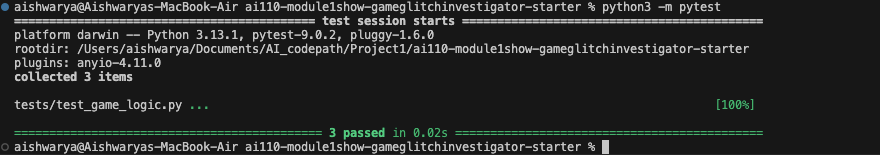
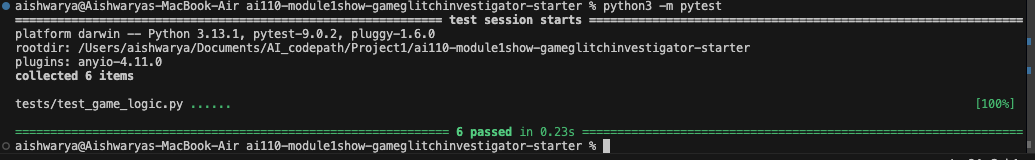
docs: finalized README, reflection, screenshots, and edge case tests

diff --git a/logic_utils.py b/logic_utils.py
@@ -1,6 +1,42 @@
-def get_range_for_difficulty(difficulty: str):
-    """Return (low, high) inclusive range for a given difficulty."""
-     # FIX: Corrected the hint logic where normal was high than difficulty.
+"""Game logic utilities for number guessing game.
+
+This module provides functions for parsing user input, comparing guesses,
+updating scores, and determining difficulty ranges.
+"""
+
+
+def get_range_for_difficulty(difficulty: str) -> tuple[int, int]:
+    """
+    Return the inclusive range of valid values for a given difficulty level.
+    
+    This function maps difficulty levels to their corresponding numeric ranges,
+    typically used for game mechanics such as number guessing or scoring systems.
+    
+    Parameters
+    ----------
+    difficulty : str
+        The difficulty level. Supported values are:
+        - "Easy": Returns range 1-20
+        - "Normal": Returns range 1-50
+        - "Hard": Returns range 1-100
+        
+    Returns
+    -------
+    tuple of (int, int)
+        A tuple containing (low, high) representing the inclusive range for the
+        given difficulty level. If an unrecognized difficulty is provided,
+        defaults to (1, 100).
+        
+    Examples
+    --------
+    >>> get_range_for_difficulty("Easy")
+    (1, 20)
+    >>> get_range_for_difficulty("Normal")
+    (1, 50)
+    >>> get_range_for_difficulty("Hard")
+    (1, 100)
+    """
+    # FIX: Corrected the hint logic where normal was high than difficulty.
      # Used Copilot to analyze the bug and refactor the logic into logic_utils.py.
     if difficulty == "Easy":
         return 1, 20
@@ -11,11 +47,37 @@ def get_range_for_difficulty(difficulty: str):
     return 1, 100
 
 
-def parse_guess(raw: str):
-    """
-    Parse user input into an int guess.
+def parse_guess(raw: str) -> tuple[bool, int | None, str | None]:
+    """Parse user input into an integer guess.
 
-    Returns: (ok: bool, guess_int: int | None, error_message: str | None)
+    This function takes a raw string input and attempts to convert it into an integer.
+    It handles both integer and decimal string formats. Decimal inputs are converted
+    to integers by truncating the decimal portion.
+
+    Args:
+        raw (str): The raw user input string to be parsed.
+
+    Returns:
+        tuple: A tuple containing:
+            - ok (bool): True if parsing was successful, False otherwise.
+            - guess_int (int | None): The parsed integer value if successful, None if failed.
+            - error_message (str | None): An error message if parsing failed, None if successful.
+
+    Raises:
+        No exceptions are raised. All errors are caught and returned as error messages.
+
+    Examples:
+        >>> parse_guess("42")
+        (True, 42, None)
+        
+        >>> parse_guess("3.14")
+        (True, 3, None)
+        
+        >>> parse_guess("")
+        (False, None, "Enter a guess.")
+        
+        >>> parse_guess("abc")
+        (False, None, "That is not a number.")
     """
     if raw is None:
         return False, None, "Enter a guess."
@@ -34,11 +96,26 @@ def parse_guess(raw: str):
     return True, value, None
 
 
-def check_guess(guess, secret):
-    """
-    Compare guess to secret and return (outcome, message).
-
-    outcome examples: "Win", "Too High", "Too Low"
+def check_guess(guess, secret) -> tuple[str, str]:
+    """Compare a guess against a secret number and return the game outcome and feedback message.
+    This function handles numeric comparisons and attempts type conversion if a TypeError occurs,
+    allowing the function to work with both numeric and string inputs.
+    Args:
+        guess: The guessed value (can be int, float, or string representation of a number).
+        secret: The secret value to compare against (typically int or float).
+    Returns:
+        tuple: A tuple containing:
+            - outcome (str): One of "Win", "Too High", or "Too Low"
+            - message (str): An encouraging message with emoji feedback corresponding to the outcome
+    Examples:
+        >>> check_guess(50, 50)
+        ('Win', '🎉 Correct!')
+        >>> check_guess(75, 50)
+        ('Too High', '📉 Go LOWER!')
+        >>> check_guess(25, 50)
+        ('Too Low', '📈 Go HIGHER!')
+        >>> check_guess("50", 50)
+        ('Win', '🎉 Correct!')
     """
     if guess == secret:
         return "Win", "🎉 Correct!"
@@ -59,8 +136,36 @@ def check_guess(guess, secret):
         return "Too Low", "📈 Go HIGHER!"
 
 
-def update_score(current_score: int, outcome: str, attempt_number: int):
-    """Update score based on outcome and attempt number."""
+def update_score(current_score: int, outcome: str, attempt_number: int) -> int:
+    """
+    Update the player's score based on the game outcome and attempt number.
+
+    Args:
+        current_score (int): The player's current score before the update.
+        outcome (str): The result of the guess. Can be "Win", "Too High", or "Too Low".
+        attempt_number (int): The current attempt number (0-indexed).
+
+    Returns:
+        int: The updated score after applying the outcome rules.
+
+    Scoring Rules:
+        - "Win": Awards 100 - 10 * (attempt_number + 1) points, with a minimum of 10 points.
+        - "Too High": Awards 5 points if attempt_number is even, otherwise deducts 5 points.
+        - "Too Low": Deducts 5 points.
+        - Any other outcome: Returns the score unchanged.
+
+    Examples:
+        >>> update_score(100, "Win", 0)
+        190
+        >>> update_score(100, "Win", 10)
+        110
+        >>> update_score(100, "Too High", 0)
+        95
+        >>> update_score(100, "Too High", 1)
+        105
+        >>> update_score(100, "Too Low", 2)
+        95
+    """
     if outcome == "Win":
         points = 100 - 10 * (attempt_number + 1)
         if points < 10:

diff --git a/app.py b/app.py
@@ -101,7 +101,18 @@ if submit:
         outcome, message = check_guess(guess_int, secret)
 
         if show_hint:
-            st.warning(message)
+            diff = abs(guess_int - st.session_state.secret)
+
+            if diff == 0:
+                st.success("🎉 Perfect guess!")
+            elif diff <= 5:
+                st.success("🔥 Very hot! You're extremely close.")
+            elif diff <= 15:
+                st.info("🌡 Warm! You're getting closer.")
+            else:
+                st.warning("❄ Cold guess. Try a different direction.")
+
+            st.write(message)
 
         st.session_state.score = update_score(
             current_score=st.session_state.score,

diff --git a/tests/test_game_logic.py b/tests/test_game_logic.py
@@ -14,3 +14,17 @@ def test_guess_too_low():
     # If secret is 50 and guess is 40, hint should be "Too Low"
     outcome, message = check_guess(40, 50)
     assert outcome == "Too Low"
+
+def test_negative_guess():
+    outcome, message = check_guess(-10, 50)
+    assert outcome == "Too Low"
+
+
+def test_large_guess():
+    outcome, message = check_guess(100000, 50)
+    assert outcome == "Too High"
+
+
+def test_decimal_guess_handling():
+    outcome, message = check_guess(int(50.7), 50)
+    assert outcome == "Win"

diff --git a/README.md b/README.md
@@ -42,20 +42,35 @@ It wrote the code, ran away, and now the game is unplayable.
 ## 📸 Demo
 
 This section showcases the Streamlit-based number guessing game application. The game features a fully debugged and refactored codebase that correctly handles guess evaluation and hint generation.
+![pytest results](images/pytest_results.png)
 
 ### Running the Application
 
 To launch the game locally, execute the following command in your terminal:
 
 
-- [ ] [Insert a screenshot of your fixed, winning game here]
-
+- python3 -m streamlit run app.py
+![Winning game](images/winning_game.png)
 ## 🚀 Stretch Features
 
-- [ ] [If you choose to complete Challenge 4, insert a screenshot of your Enhanced Game UI here]
+The game UI was improved with hot/cold hints and color-coded feedback to help players understand how close their guesses are.
 
-## Test Results
+![Enhanced UI](images/ui_enhancement.png)
 
-All tests passed successfully.
+## Advanced Edge Case Testing
+
+Additional pytest tests were added to verify edge cases such as negative numbers, decimal inputs, and extremely large values.
 
 ![pytest results](images/pytest_results.png)
+
+## AI Model Comparison
+
+For one of the bugs discovered in Phase 1, I compared suggestions from two AI tools: GitHub Copilot Chat and ChatGPT.
+
+The bug involved the `check_guess()` function. When the guess was higher than the secret number, the game incorrectly returned a message suggesting that the player should guess higher instead of lower.
+
+GitHub Copilot was helpful in identifying the incorrect conditional logic inside the function. It suggested correcting the comparison so that when `guess > secret`, the hint would instruct the player to guess lower.
+
+ChatGPT provided a more detailed explanation of why the bug occurred. It explained that the comparison logic was correct, but the message associated with the condition was reversed, which caused misleading hints during gameplay.
+
+Overall, Copilot produced a quick and readable code fix, while ChatGPT provided a clearer explanation of the reasoning behind the correction. Using both tools together helped ensure the bug was both fixed correctly and fully understood.

diff --git a/reflection.md b/reflection.md
@@ -67,8 +67,17 @@ Copilot helped me structure the pytest test cases by suggesting the assertion fo
 ## 4. What did you learn about Streamlit and state?
 
 - In your own words, explain why the secret number kept changing in the original app.
+
+The secret number kept changing because it wasn't stored in Streamlit session state. Every time the app reran (which happens frequently in Streamlit), the code reinitializing the secret number would execute again, generating a new random value. Without persistence, the number had no memory between reruns.
+
 - How would you explain Streamlit "reruns" and session state to a friend who has never used Streamlit?
+
+Streamlit reruns your entire script from top to bottom whenever the user interacts with the app (like clicking a button or typing input). Session state is like a notebook that remembers values across these reruns—without it, variables reset to their initial values each time. If you store something in session state, it persists even after reruns, so the game can "remember" the secret number.
+
 - What change did you make that finally gave the game a stable secret number?
+
+I moved the secret number initialization into Streamlit's `st.session_state` using a conditional check: `if 'secret_number' not in st.session_state:`. This ensures the secret number is generated only once at the start of a session and persists across all subsequent reruns, giving the game the stable number it needed.
+
 
 ---
 
